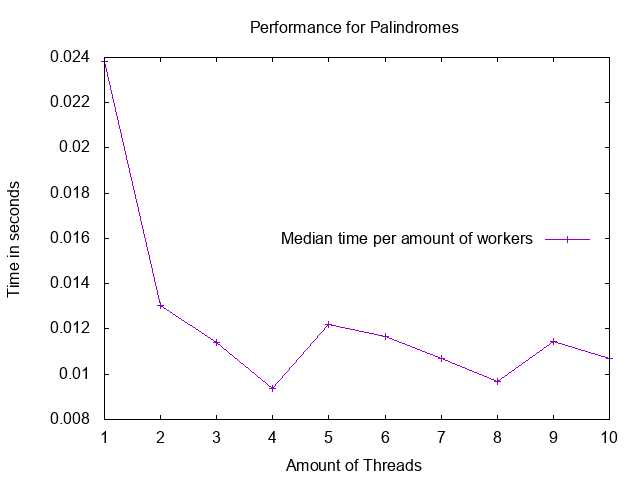
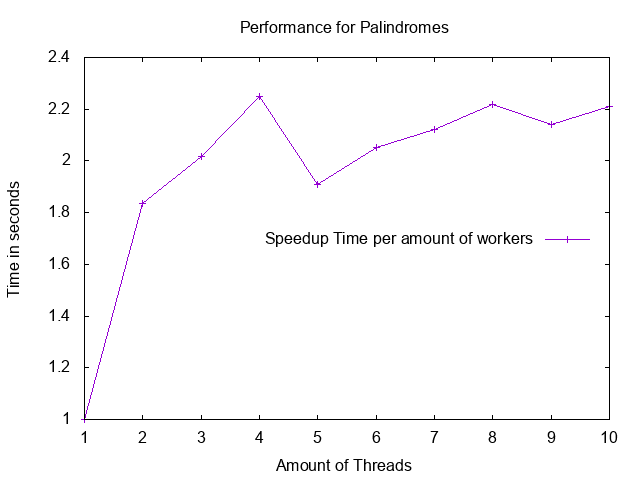
matrixA

diff --git a/HW2/Matrix/matrixA.c b/HW2/Matrix/matrixA.c
@@ -42,58 +42,69 @@ int main(int argc, char *argv[]) {
   numWorkers = (argc > 2)? atoi(argv[2]) : MAXWORKERS;
   if (size > MAXSIZE) size = MAXSIZE;
   if (numWorkers > MAXWORKERS) numWorkers = MAXWORKERS;
-  struct worker data; /* partial data for min and max values */
+  struct worker data[numWorkers]; /* partial data for min and max values */
+  int sums[numWorkers]; /* partial sums */
 
-    data.max=INT_MIN;
-    data.min=INT_MAX;
+  for(int k=0;k<numWorkers;k++){ /* Init all min and max values */
+    data[k].max=INT_MIN;
+    data[k].min=INT_MAX;
+  }
 
   omp_set_num_threads(numWorkers);
 
   /* initialize the matrix */
   for (i = 0; i < size; i++) {
-     printf("[ ");
+     //printf("[ ");
 	  for (j = 0; j < size; j++) {
       matrix[i][j] = rand()%99;
-      	  printf(" %d", matrix[i][j]);
+      //	  printf(" %d", matrix[i][j]);
 	  }
-	  	  printf(" ]\n");
+	  //	  printf(" ]\n");
   }
-  omp_init_lock(&maxlock);
-  omp_init_lock(&minlock);
+  int myid;
   start_time = omp_get_wtime();
-#pragma omp parallel for reduction (+:total) private(j)
-  for (i = 0; i < size; i++)
+#pragma omp parallel for reduction (+:total) private(j,myid)
+  for (i = 0; i < size; i++){
+    myid = omp_get_thread_num();
     for (j = 0; j < size; j++){
-     omp_set_lock(&maxlock);
-    //#pragma omp critical(max)
-     {
-      if(matrix[i][j]>data.max){
-        data.max = matrix[i][j];
-        data.maxPos[0] = i;
-        data.maxPos[1] = j;
-      }
-    }
-      omp_unset_lock(&maxlock);
-      omp_set_lock(&minlock);
-    //#pragma omp critical(min)
-    {
-      if(matrix[i][j]<data.min){
-        data.min = matrix[i][j];
-        data.minPos[0] = i;
-        data.minPos[1] = j;
-      }
-    }
-      omp_unset_lock(&minlock);
+     if(matrix[i][j]>data[myid].max){
+       data[myid].max = matrix[i][j];
+       data[myid].maxPos[0] = i;
+       data[myid].maxPos[1] = j;
+     }
+     if(matrix[i][j]<data[myid].min){
+       data[myid].min = matrix[i][j];
+       data[myid].minPos[0] = i;
+       data[myid].minPos[1] = j;
+     }
       total += matrix[i][j];
     }
+  }
 // implicit barrier
 
   end_time = omp_get_wtime();
+  struct worker final;
 
-  printf("minimum %d at (%d,%d)\n", data.min,data.minPos[1]+1,data.minPos[0]+1);
-  printf("max is %d at (%d,%d)\n", data.max,data.maxPos[1]+1,data.maxPos[0]+1);
+    final = data[0];
+    for (i = 0; i < numWorkers; i++){
+      if(final.max < data[i].max){
+        final.max = data[i].max;
+        final.maxPos[0] = data[i].maxPos[0];
+        final.maxPos[1] = data[i].maxPos[1];
+      }
+      if(final.min > data[i].min){
+        final.min = data[i].min;
+        final.minPos[0] = data[i].minPos[0];
+        final.minPos[1] = data[i].minPos[1];
+      }
+    }
 
-  printf("the total is %d\n", total);
-  printf("it took %g seconds\n", end_time - start_time);
+    //Performance Evaluation
+    printf("%f\n", end_time - start_time);
+//NORMAL OUTPUT
+    //printf("The total is %d\n", total);
+    //printf("The max is %d at position (%d,%d)\n", final.max, final.maxPos[1]+1,final.maxPos[0]+1);
+    //printf("The min is %d at position (%d,%d)\n", final.min, final.minPos[1]+1,final.minPos[0]+1);
+    //printf("The execution time is %g sec\n", end_time - start_time);
 
 }

diff --git a/HW2/Matrix/matrixB.c b/HW2/Matrix/matrixB.c
@@ -51,21 +51,22 @@ int main(int argc, char *argv[]) {
 
   /* initialize the matrix */
   for (i = 0; i < size; i++) {
-     printf("[ ");
+    // printf("[ ");
 	  for (j = 0; j < size; j++) {
       matrix[i][j] = rand()%99;
-      	  printf(" %d", matrix[i][j]);
+      	  //printf(" %d", matrix[i][j]);
 	  }
-	  	  printf(" ]\n");
+	  	 // printf(" ]\n");
   }
   omp_init_lock(&maxlock);
   omp_init_lock(&minlock);
   start_time = omp_get_wtime();
+
 #pragma omp parallel for reduction (+:total) private(j)
   for (i = 0; i < size; i++)
     for (j = 0; j < size; j++){
-     omp_set_lock(&maxlock);
-    //#pragma omp critical(max)
+     //omp_set_lock(&maxlock);
+    #pragma omp critical(max)
      {
       if(matrix[i][j]>data.max){
         data.max = matrix[i][j];
@@ -73,9 +74,9 @@ int main(int argc, char *argv[]) {
         data.maxPos[1] = j;
       }
     }
-      omp_unset_lock(&maxlock);
-      omp_set_lock(&minlock);
-    //#pragma omp critical(min)
+      //omp_unset_lock(&maxlock);
+      //omp_set_lock(&minlock);
+    #pragma omp critical(min)
     {
       if(matrix[i][j]<data.min){
         data.min = matrix[i][j];
@@ -83,17 +84,25 @@ int main(int argc, char *argv[]) {
         data.minPos[1] = j;
       }
     }
-      omp_unset_lock(&minlock);
+      //omp_unset_lock(&minlock);
       total += matrix[i][j];
     }
+
 // implicit barrier
 
   end_time = omp_get_wtime();
 
-  printf("minimum %d at (%d,%d)\n", data.min,data.minPos[1]+1,data.minPos[0]+1);
-  printf("max is %d at (%d,%d)\n", data.max,data.maxPos[1]+1,data.maxPos[0]+1);
+  #pragma omp master
+  {
+    //Performance Evaluation
+    printf("%f\n", end_time - start_time);
 
-  printf("the total is %d\n", total);
-  printf("it took %g seconds\n", end_time - start_time);
+
+  // NORMAL PRINT
+  /*  printf("minimum %d at (%d,%d)\n", data.min,data.minPos[1]+1,data.minPos[0]+1);
+    printf("max is %d at (%d,%d)\n", data.max,data.maxPos[1]+1,data.maxPos[0]+1);
+    printf("the total is %d\n", total);
+    printf("it took %g seconds\n", end_time - start_time);*/
+}
 
 }

diff --git a/HW2/Palindromes/palindromes.c b/HW2/Palindromes/palindromes.c
@@ -29,14 +29,15 @@ struct word_struct{
   string sanitized;
 };
 
+int numWords;
 int numWorkers;
 int listSize;
 int counter[MAXWORKERS];
 
 
 ofstream writeFile;
-struct word_struct words[WORDCOUNT];
 
+struct word_struct words[WORDCOUNT];
 
 double read_timer() {
     static bool initialized = false;
@@ -88,7 +89,7 @@ int binarySearch(string word, struct word_struct words[]){
   std::reverse(copy.begin(),copy.end());
   int boolean = FALSE;
   double low = 0;
-  double high = WORDCOUNT-1;
+  double high = numWords-1;
   string currentWord;
   int index;
 
@@ -131,12 +132,16 @@ int main(int argc, char *argv[]){
   if(numWorkers>MAXWORKERS){
     numWorkers=MAXWORKERS;
   }
-  listSize = WORDCOUNT/numWorkers;
+  numWords = (argc > 2)? atoi(argv[2]) : WORDCOUNT;
+  if(numWords>WORDCOUNT){
+    numWords=WORDCOUNT;
+  }
+  listSize = numWords/numWorkers;
 
   /* Loading file data onto array */
   writeFile.open("palindromes");
   inFile.open("words");
-    for (int i = 0; i < WORDCOUNT-1; i++)
+    for (int i = 0; i < numWords-1; i++)
     {
       inFile >> words[i].word;
       if(symbol(words[i].word)==TRUE){
@@ -152,7 +157,7 @@ int main(int argc, char *argv[]){
   omp_set_num_threads(numWorkers);
   double start = omp_get_wtime();
   #pragma omp parallel for //reduction (+:total)
-  for(i = 0; i<WORDCOUNT;i++){
+  for(i = 0; i<numWords-1;i++){
     if(palindromic(words[i].word)==TRUE){
     //  printf("ONE WORD: %s, %d\n ",words[i].c_str(),myid);
       //total++;
@@ -172,7 +177,7 @@ int main(int argc, char *argv[]){
   }
 
   total = 0;
-  for(int i = 0; i<WORDCOUNT-1;i++){
+  for(int i = 0; i<numWords-1;i++){
     if(words[i].palindrome){
      //printf("%s\n",words[i].word.c_str());
       total++;

diff --git a/HW2/Matrix/performanceAnalyser.c b/HW2/Matrix/performanceAnalyser.c
@@ -12,30 +12,39 @@
 #include <cstdio>
 #include <cctype>
 #include <cmath>
-#define SAMPLESIZE 100
-#define SAMPLES 10
+#define SAMPLESIZE 3
+#define SAMPLES 8
 
 using namespace std;
 
 ofstream writeFile;
 ifstream inFile;
-
+double arr[SAMPLES][SAMPLESIZE];
+int comp (const void *e1, const void *e2){
+  double f = *((double*)e1);
+  double s = *((double*)e2);
+  if(f>s)return 1;
+  if(f<s)return -1;
+  return 0;
+}
 int main(){
   writeFile.open("performance.dat");
-
+  int first_time;
   for(int i = 0; i<SAMPLES;i++){
-    inFile.open("pal"+to_string(i+1));
+    inFile.open("mat"+to_string(i+1));
     double total_time = 0;
 
     for(int j = 0; j<SAMPLESIZE;j++){
       double input;
-      inFile >> input;
-      total_time = total_time+input;
+      inFile >> arr[i][j];
     }
-
+    qsort(arr[i], SAMPLESIZE, sizeof(double), comp);
     inFile.close();
-    printf("avg: %f\n", total_time/SAMPLESIZE);
-    string output = to_string(i+1) + "\t" + to_string(total_time/SAMPLESIZE) + "\n";
+
+  //  printf("median: %f\n", arr[i][SAMPLESIZE/2]);
+    printf("speedup: %f\n", arr[0][SAMPLESIZE/2]/arr[i][SAMPLESIZE/2]);
+
+    string output = to_string(i+1) + "\t" + to_string(arr[0][SAMPLESIZE/2]/arr[i][SAMPLESIZE/2]) + "\n";
     writeFile<<output;
   }
 

diff --git a/HW2/Palindromes/performanceAnalyser.c b/HW2/Palindromes/performanceAnalyser.c
@@ -12,7 +12,7 @@
 #include <cstdio>
 #include <cctype>
 #include <cmath>
-#define SAMPLESIZE 100
+#define SAMPLESIZE 10
 #define SAMPLES 10
 
 using namespace std;
@@ -29,7 +29,7 @@ int comp (const void *e1, const void *e2){
 }
 int main(){
   writeFile.open("performance.dat");
-
+  int first_time;
   for(int i = 0; i<SAMPLES;i++){
     inFile.open("pal"+to_string(i+1));
     double total_time = 0;
@@ -40,8 +40,11 @@ int main(){
     }
     qsort(arr[i], SAMPLESIZE, sizeof(double), comp);
     inFile.close();
-    printf("median: %f\n", arr[i][SAMPLESIZE/2]);
-    string output = to_string(i+1) + "\t" + to_string(arr[i][SAMPLESIZE/2]) + "\n";
+
+  //  printf("median: %f\n", arr[i][SAMPLESIZE/2]);
+    printf("speedup: %f\n", arr[0][SAMPLESIZE/2]/arr[i][SAMPLESIZE/2]);
+
+    string output = to_string(i+1) + "\t" + to_string(arr[0][SAMPLESIZE/2]/arr[i][SAMPLESIZE/2]) + "\n";
     writeFile<<output;
   }
 

diff --git a/HW2/Matrix/matrixSum-openmp.c b/HW2/Matrix/matrixSum-openmp.c
@@ -4,7 +4,7 @@ gcc-8 -Wall -fopenmp your-parallel-program.c
 
 
    usage with gcc (version 4.2 or higher required):
-     gcc -O -fopenmp -o matrixSum-openmp matrixSum-openmp.c 
+     gcc -O -fopenmp -o matrixSum-openmp matrixSum-openmp.c
      ./matrixSum-openmp size numWorkers
 
 */
@@ -18,7 +18,7 @@ double start_time, end_time;
 #define MAXWORKERS 8   /* maximum number of workers */
 
 int numWorkers;
-int size; 
+int size;
 int matrix[MAXSIZE][MAXSIZE];
 void *Worker(void *);
 
@@ -58,4 +58,3 @@ int main(int argc, char *argv[]) {
   printf("it took %g seconds\n", end_time - start_time);
 
 }
-
